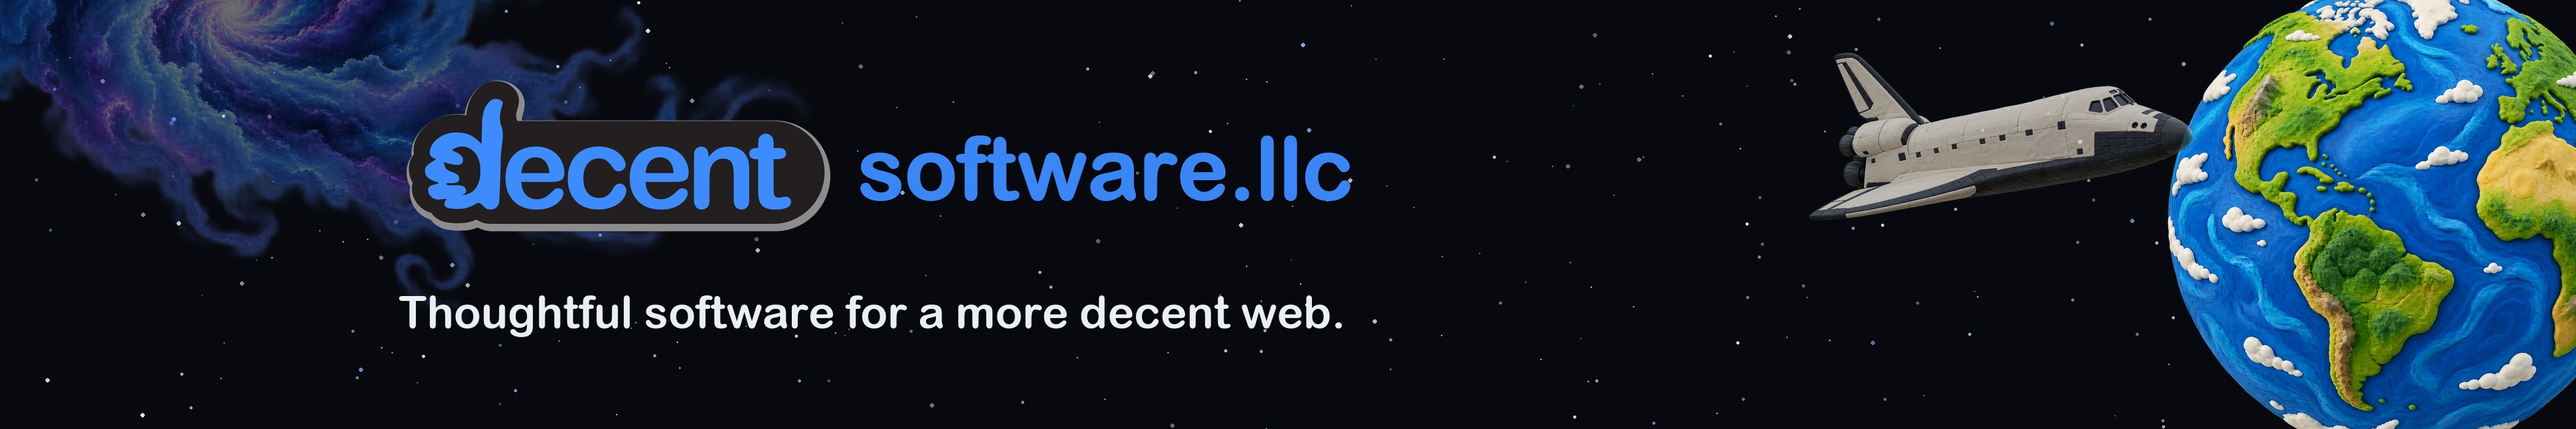
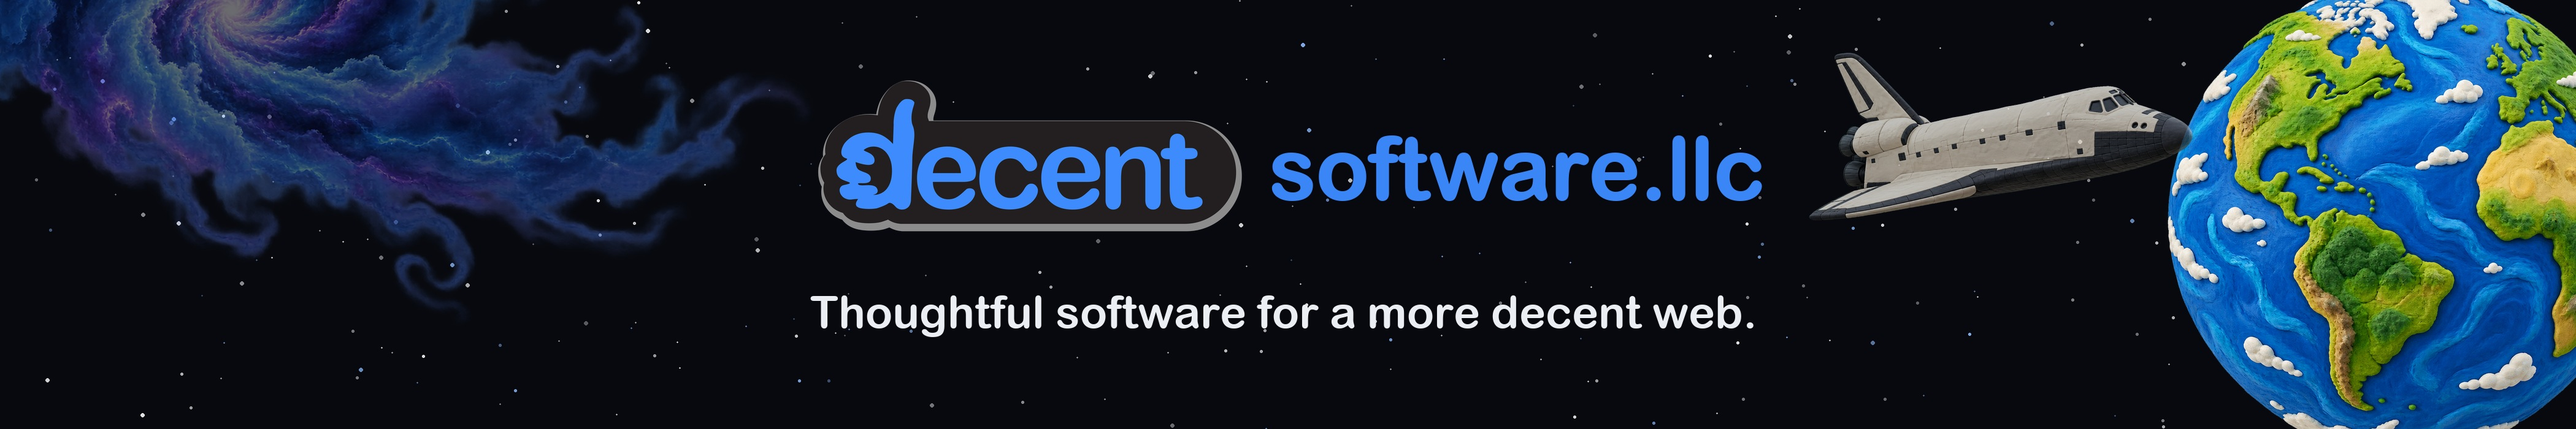
Center LinkedIn cover branding

Changed region(s): [[0.156, 0.18, 0.6862, 0.54], [0.156, 0.69, 0.6862, 0.78]]

diff --git a/scripts/generate_linkedin_cover.py b/scripts/generate_linkedin_cover.py
@@ -44,12 +44,14 @@ def main() -> None:
     canvas.alpha_composite(shuttle, (2920, 58))
 
     logo = contain(ASSETS / "decent.png", 720, 285)
-    logo_x = 650
-    logo_y = 115
-    canvas.alpha_composite(logo, (logo_x, logo_y))
-
     rounded_font = Path("/System/Library/Fonts/Supplemental/Arial Rounded Bold.ttf")
     title_font = ImageFont.truetype(str(rounded_font), 142)
+    title_width = draw.textbbox((0, 0), "software.llc", font=title_font, stroke_width=1)[2]
+    lockup_width = logo.width + 32 + title_width
+
+    logo_x = (WIDTH - lockup_width) // 2
+    logo_y = 115
+    canvas.alpha_composite(logo, (logo_x, logo_y))
 
     title_x = logo_x + logo.width + 32
     title_y = 190
@@ -57,8 +59,6 @@ def main() -> None:
     draw.text((title_x, title_y), "software.llc", font=title_font, fill=(*BLUE, 255), stroke_width=1)
 
     tagline = "Thoughtful software for a more decent web."
-    title_box = draw.textbbox((title_x, title_y), "software.llc", font=title_font, stroke_width=1)
-    lockup_width = title_box[2] - logo_x
     tagline_size = 58
     tagline_font = ImageFont.truetype(str(rounded_font), tagline_size)
     while draw.textlength(tagline, font=tagline_font) < lockup_width:
